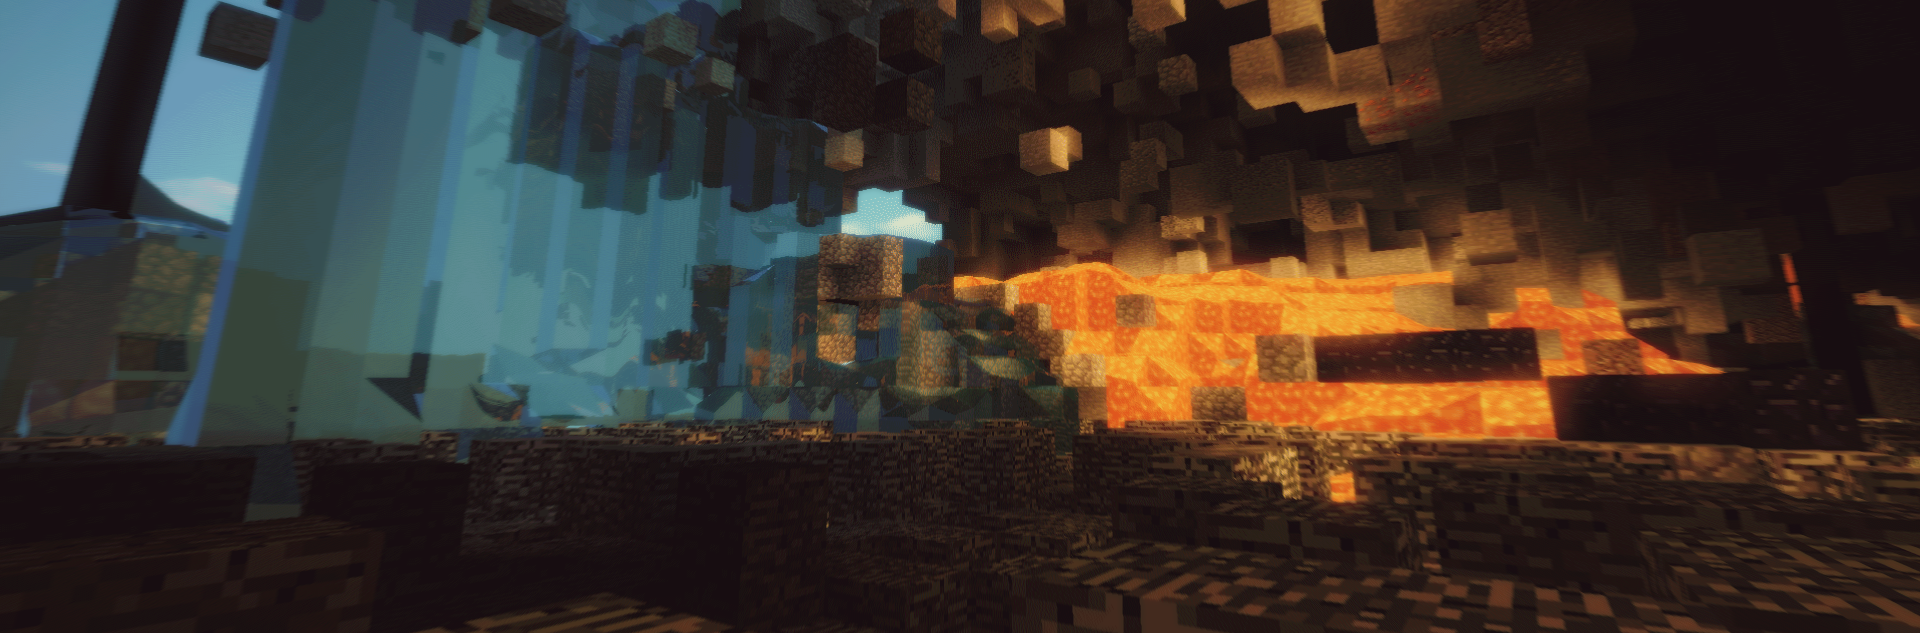
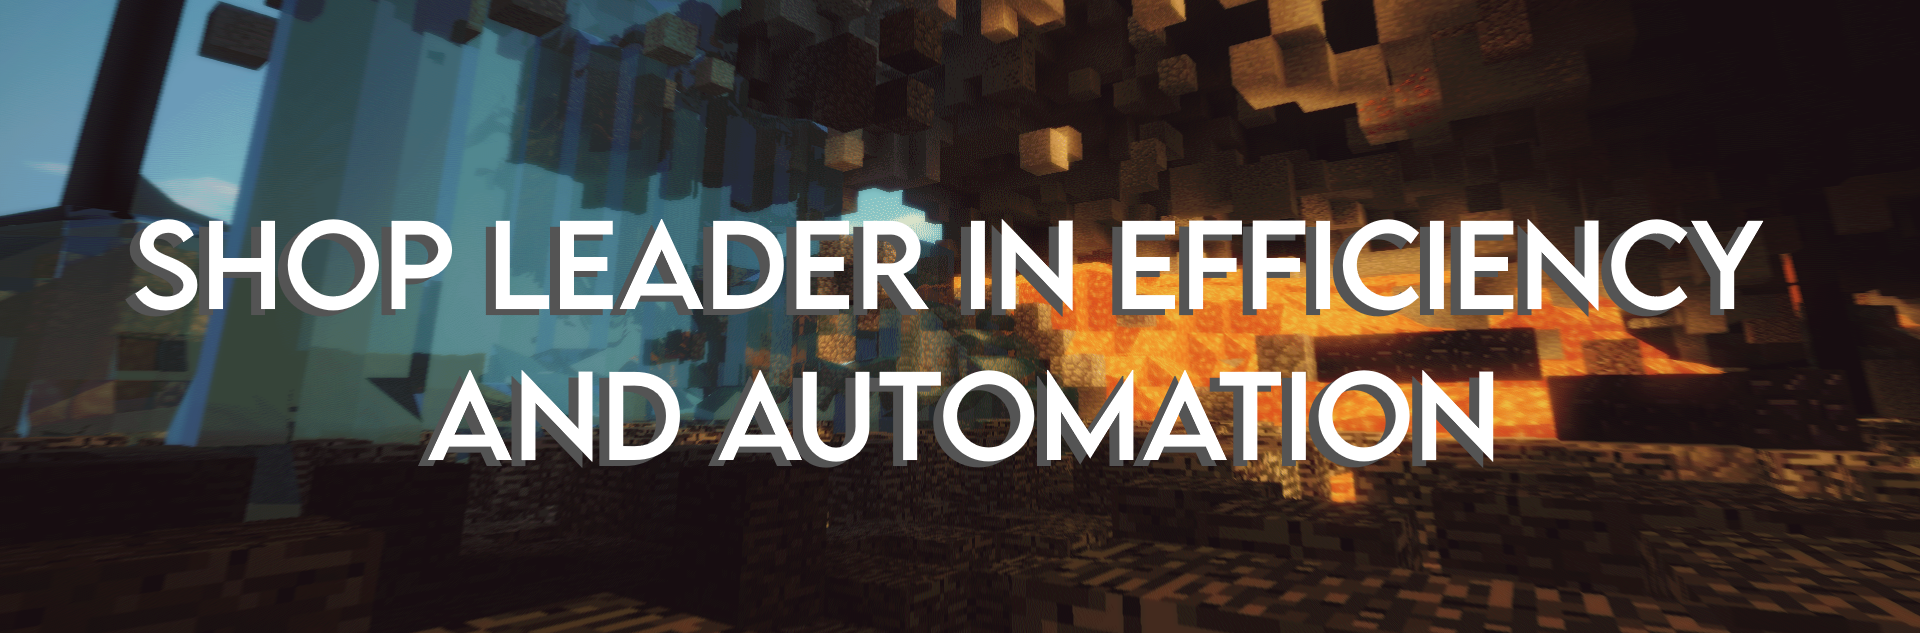
com

Changed region(s): [[0.0625, 0.3302, 0.9375, 0.5103], [0.2188, 0.5703, 0.7812, 0.7504]]

diff --git a/home.html b/home.html
@@ -31,10 +31,7 @@
         })
         </script>
         <!--end of Navigation bar-->
-
-        <h1 class="coverLine">
-            Shop leader in reliability and automation
-        </h1>
+        
         <img src="Assets/bg2.png" id="bgImage">
     </body>
 </html>
